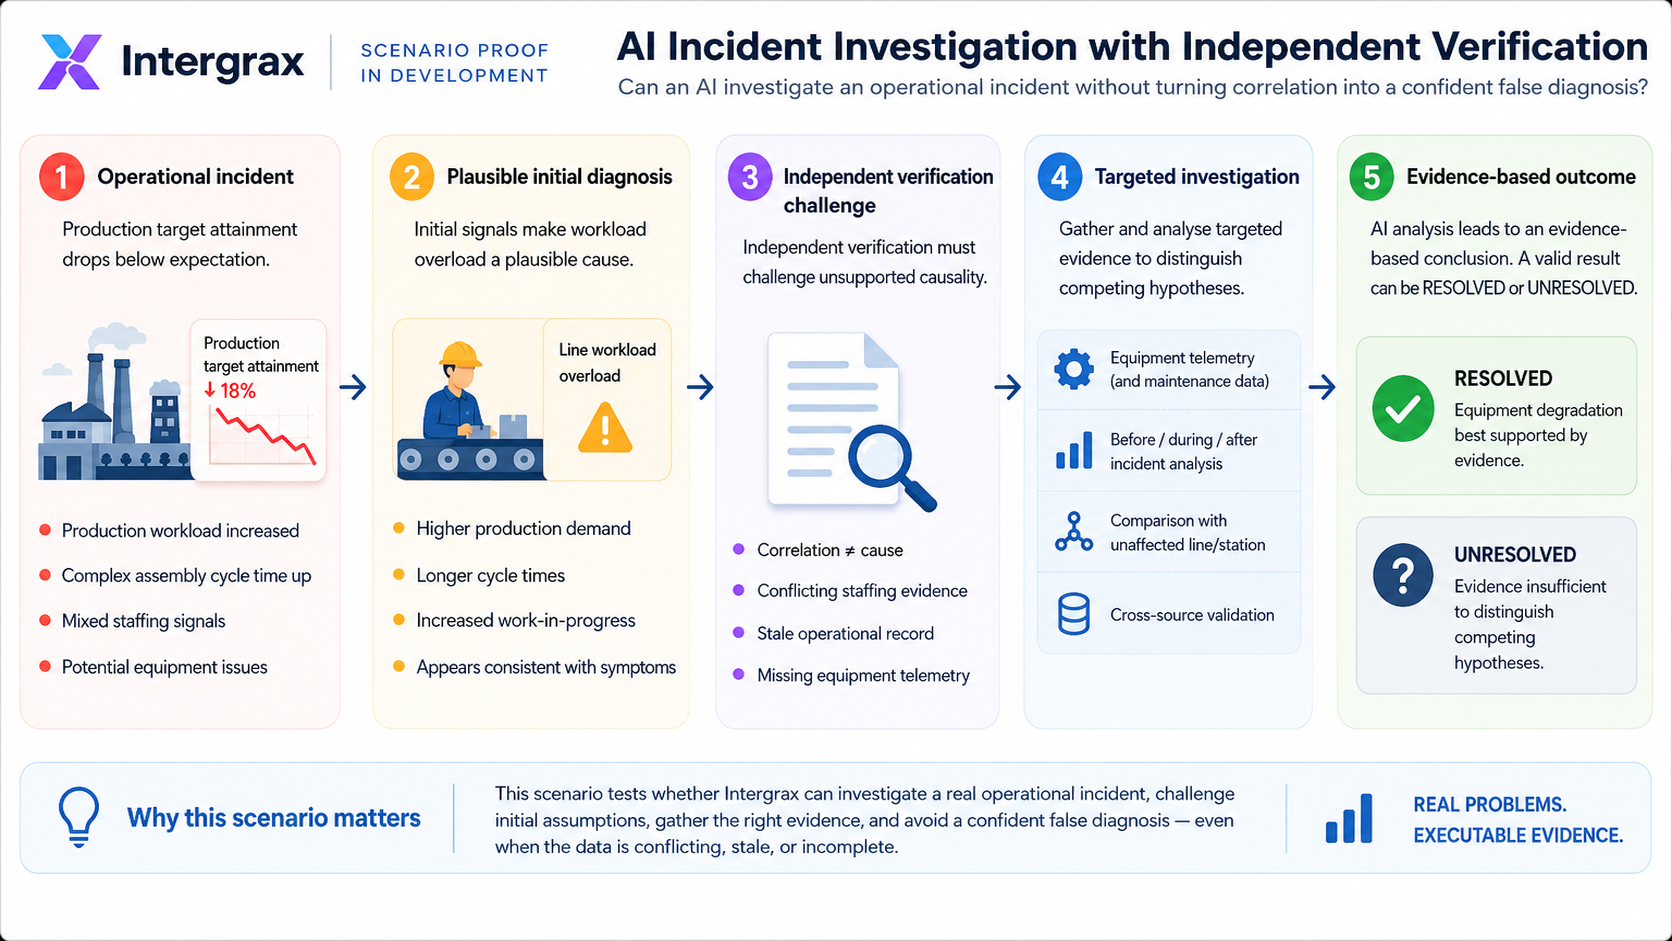
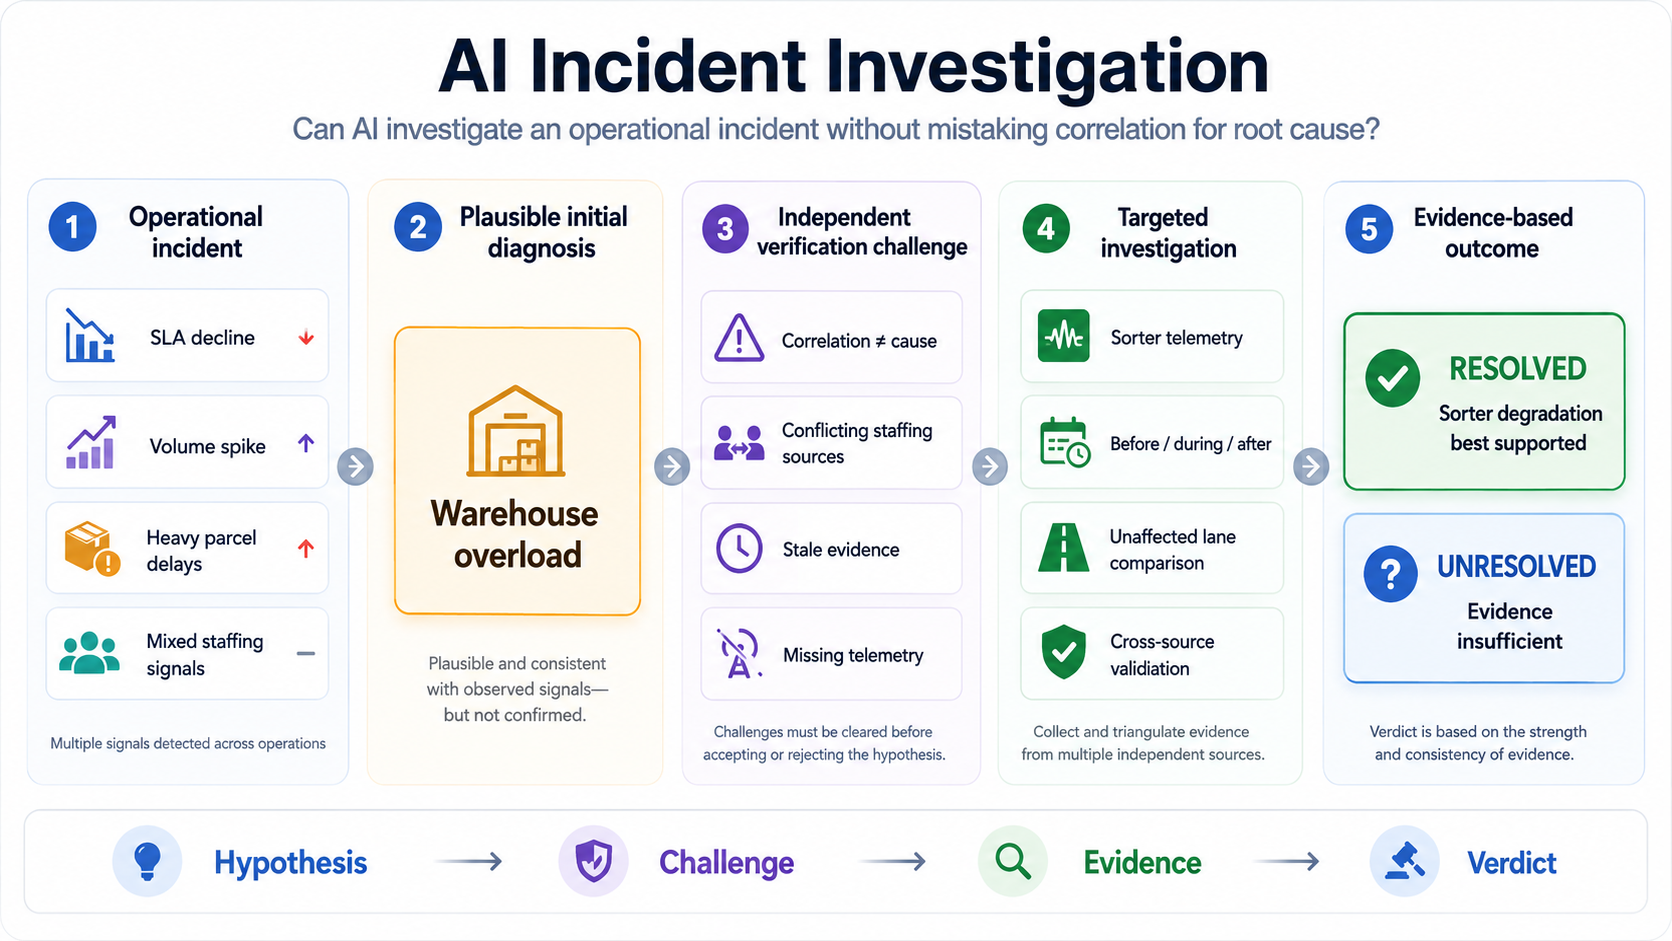
fix(docs): clarify RAG external live-provider boundary semantics
Replace ambiguous 'complete live-provider access' with 'complete external live-provider access' so RAG.md does not imply controlled-live paths are absent.

diff --git a/tests/unit/docs/test_public_reader_documents_contract.py b/tests/unit/docs/test_public_reader_documents_contract.py
@@ -28,6 +28,7 @@ HUB_PATH = REPO_ROOT / "docs" / "project" / "README.md"
 WHY_PATH = REPO_ROOT / "docs" / "project" / "overview" / "WHY_INTERGRAX.md"
 USE_CASES_PATH = REPO_ROOT / "docs" / "project" / "overview" / "USE_CASES.md"
 ARCHITECTURE_OVERVIEW_PATH = REPO_ROOT / "docs" / "project" / "architecture" / "ARCHITECTURE_OVERVIEW.md"
+RAG_PATH = REPO_ROOT / "docs" / "project" / "architecture" / "RAG.md"
 BUILD_PATH = REPO_ROOT / "docs" / "project" / "builders" / "BUILD_WITH_INTERGRAX.md"
 BUILDER_QUICKSTART_PATH = REPO_ROOT / "docs" / "project" / "builders" / "BUILDER_QUICKSTART.md"
 PUBLIC_MAP_PATH = REPO_ROOT / "docs" / "project" / "community" / "PUBLIC_DOCUMENTATION_MAP.md"
@@ -1083,6 +1084,7 @@ def test_public_reader_docs_external_live_provider_boundary() -> None:
     """RELEASE-FIX-1: public reader docs must not imply controlled-live is absent."""
     for path in (
         ARCHITECTURE_OVERVIEW_PATH,
+        RAG_PATH,
         ROADMAP_PATH,
         FAQ_PATH,
         EVALUATION_GUIDE_PATH,

diff --git a/docs/project/architecture/RAG.md b/docs/project/architecture/RAG.md
@@ -219,12 +219,12 @@ LKW exercises **indexed** RAG ingest and retrieval — not the full RAG qualific
 | ----------- | ------------ | -------------------- |
 | LKW Product Quick Start / indexed Ask V1 | Managed sample → index → grounded indexed Ask with citation path | Hybrid live+indexed; all providers; production/commercial validation |
 | LKW indexed Hybrid Ask (`indexed_only`) | Production indexed branch; retrieval even when answer assembly returns `insufficient_evidence` | Mixed authorized-live Hybrid Ask |
-| LKW Web URL intake (`LKW-WEB-URL-INDEXED-ASK`) | WEB_URL capture → tenant/workspace Qdrant scope → indexed retrieval | Arbitrary external sites; complete live-provider access |
+| LKW Web URL intake (`LKW-WEB-URL-INDEXED-ASK`) | WEB_URL capture → tenant/workspace Qdrant scope → indexed retrieval | Arbitrary external sites; complete external live-provider access |
 | LKW Trusted Ask / Core Platform proofs | Durable workspace indexed path through real runtime stack | Universal provider certification |
 
 Catalog: [`docs/project/proofs/PROOFS.md`](../proofs/PROOFS.md) · LKW detail: [`LKW_PLATFORM_PROOF.md`](../../../applications/local_workspace_application/docs/proof/LKW_PLATFORM_PROOF.md).
 
-**Not established by current public or qualification evidence:** mixed indexed + authorized live Hybrid Ask; complete live-provider access; real-user validation; commercial validation; transactional exactly-once replacement across stores.
+**Not established by current public or qualification evidence:** mixed indexed + authorized live Hybrid Ask; complete external live-provider access; real-user validation; commercial validation; transactional exactly-once replacement across stores.
 
 ### Core implementation
 
